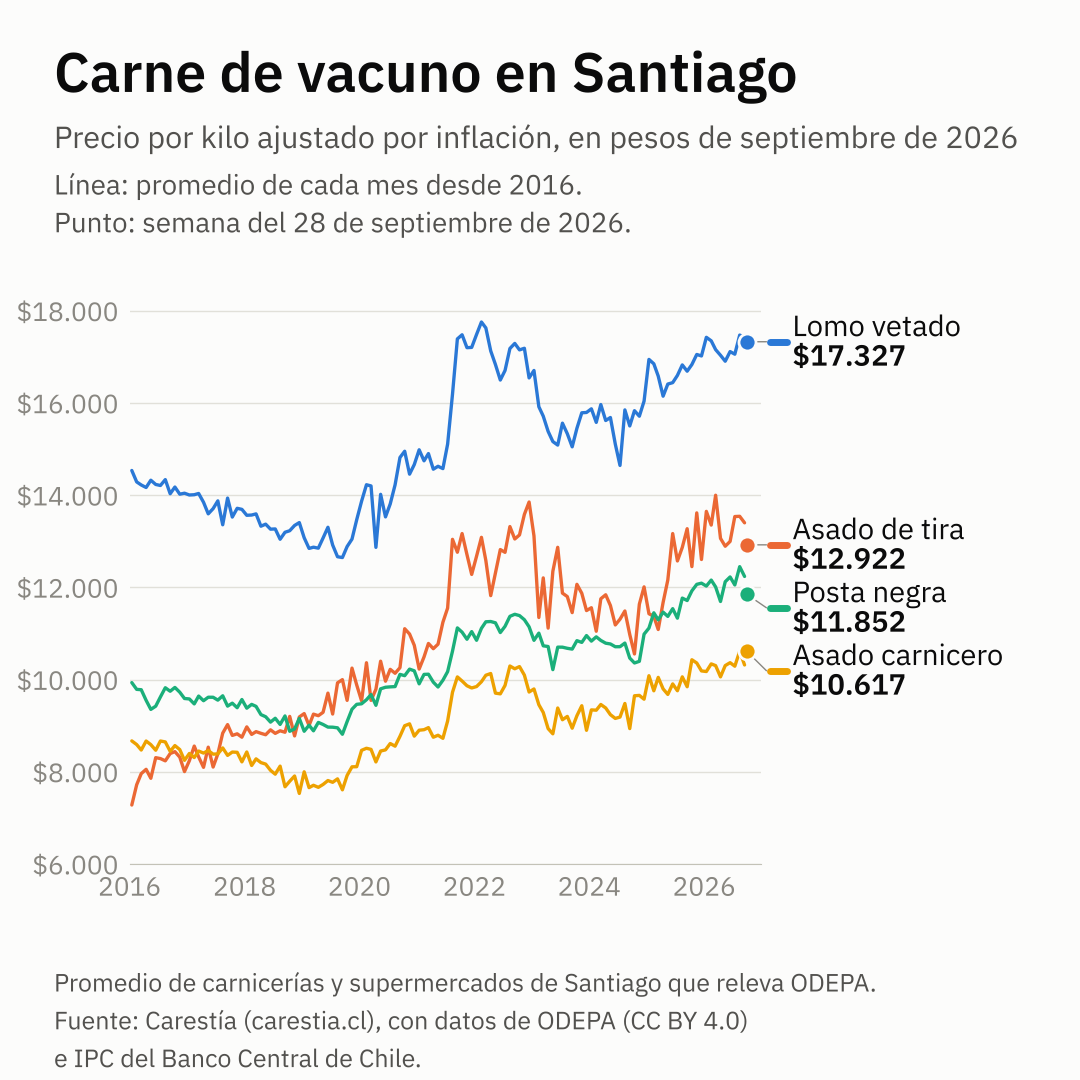
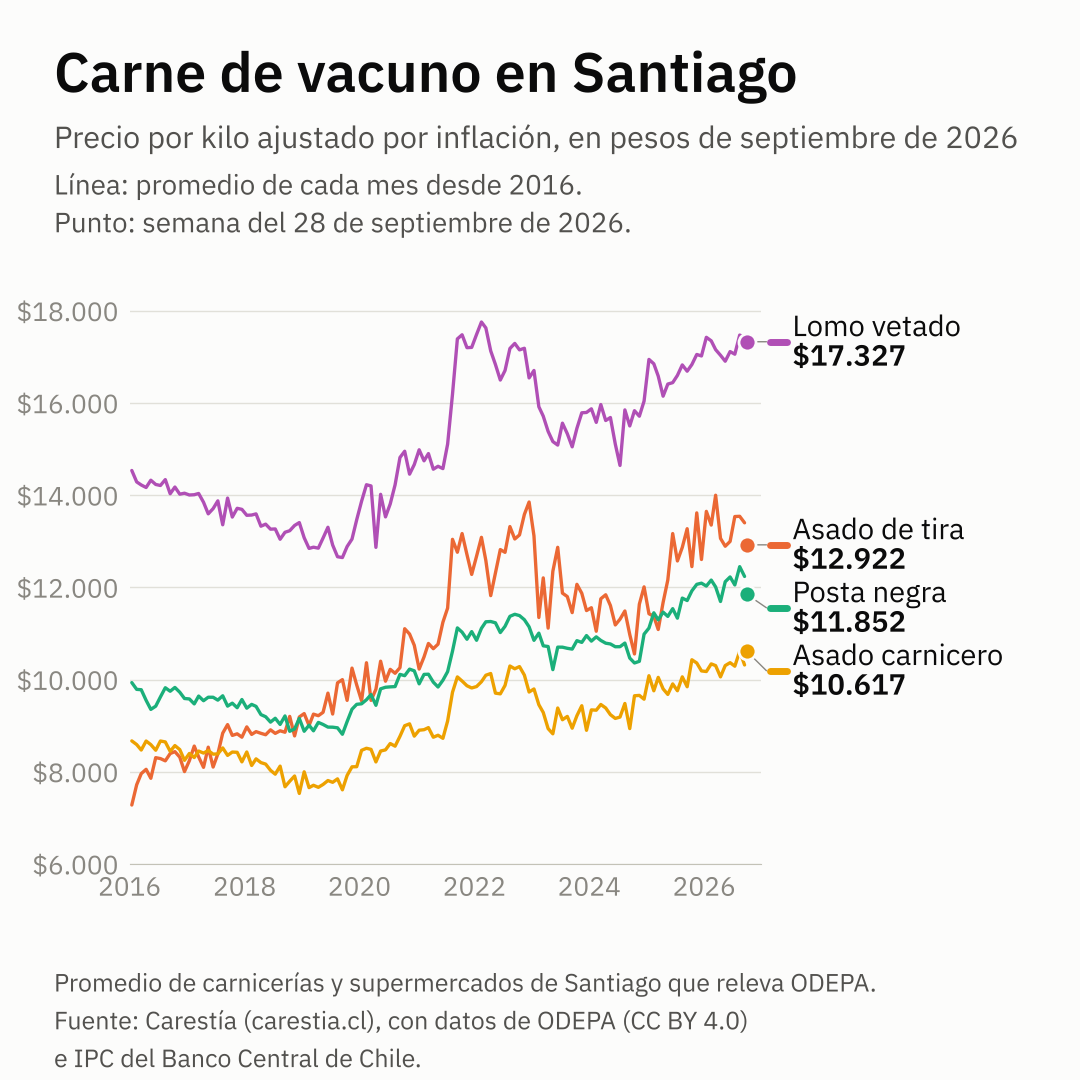
Análisis: el lomo vetado del gráfico de vacuno en el magenta de Comparar (#79)
La marca no usa azules. El lomo vetado pasa de #2a78d6 al magenta de
Comparar (#b04fb5, --cmp2 del sitio). Es el único de los cuatro tonos de
Comparar que se distingue de los otros tres cortes: con visión normal y con
protanopía, deuteranopía y tritanopía simuladas (Machado 2009) queda a 14 o
más (OKLab x100) de cada uno, y a 4,4:1 de la superficie.

grafico_vacuno.png regenerado con matplotlib 3.11.2: solo cambian los
pixeles de la línea, el punto y la marca de la etiqueta del lomo vetado.

Claude-Session: https://claude.ai/code/session_01ECjoWzySmn4oCnyb86cTwy

diff --git a/analisis/vacuno/graficar.py b/analisis/vacuno/graficar.py
@@ -31,9 +31,13 @@ DESDE = datetime.date(2016, 1, 1)
 CORTES = [("lomo_vetado", "Lomo vetado"), ("asado_de_tira", "Asado de tira"),
           ("posta_negra", "Posta negra"), ("asado_carnicero", "Asado carnicero")]
 # paleta validada (dataviz, scripts/validate_palette.js en modo claro: pasa;
-# el contraste bajo 3:1 de los dos últimos se cubre con etiquetas directas)
+# el contraste bajo 3:1 de los dos últimos se cubre con etiquetas directas).
+# El lomo vetado va en el magenta de Comparar (--cmp2 del sitio): la marca no
+# usa azules. Queda a 14 o más (OKLab x100) de cada uno de los otros tres con
+# visión normal y con protanopía, deuteranopía y tritanopía simuladas, y a
+# 4,4:1 de la superficie
 SUPERFICIE, TEXTO, TEXTO_2, MUTED, GRILLA = "#fcfcfb", "#0b0b0b", "#52514e", "#898781", "#e1e0d9"
-SERIES = ["#2a78d6", "#eb6834", "#1baf7a", "#eda100"]
+SERIES = ["#b04fb5", "#eb6834", "#1baf7a", "#eda100"]
 LADO = 1080                                   # pixeles
 TEXTOS = []                                   # todo el texto del gráfico (lo revisa el test)
 
